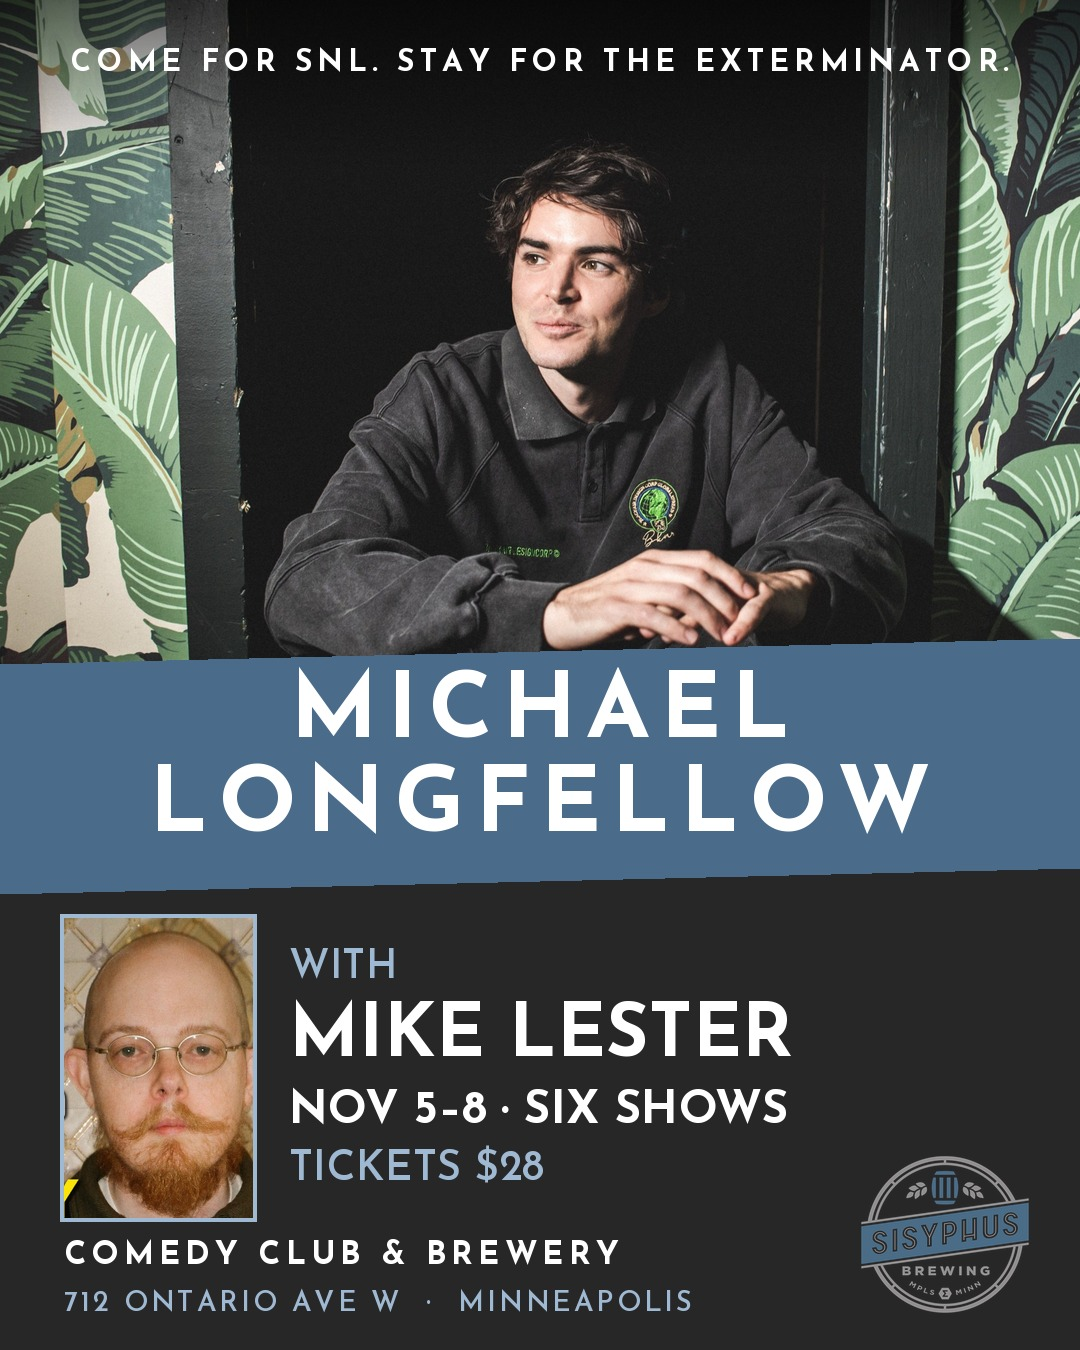
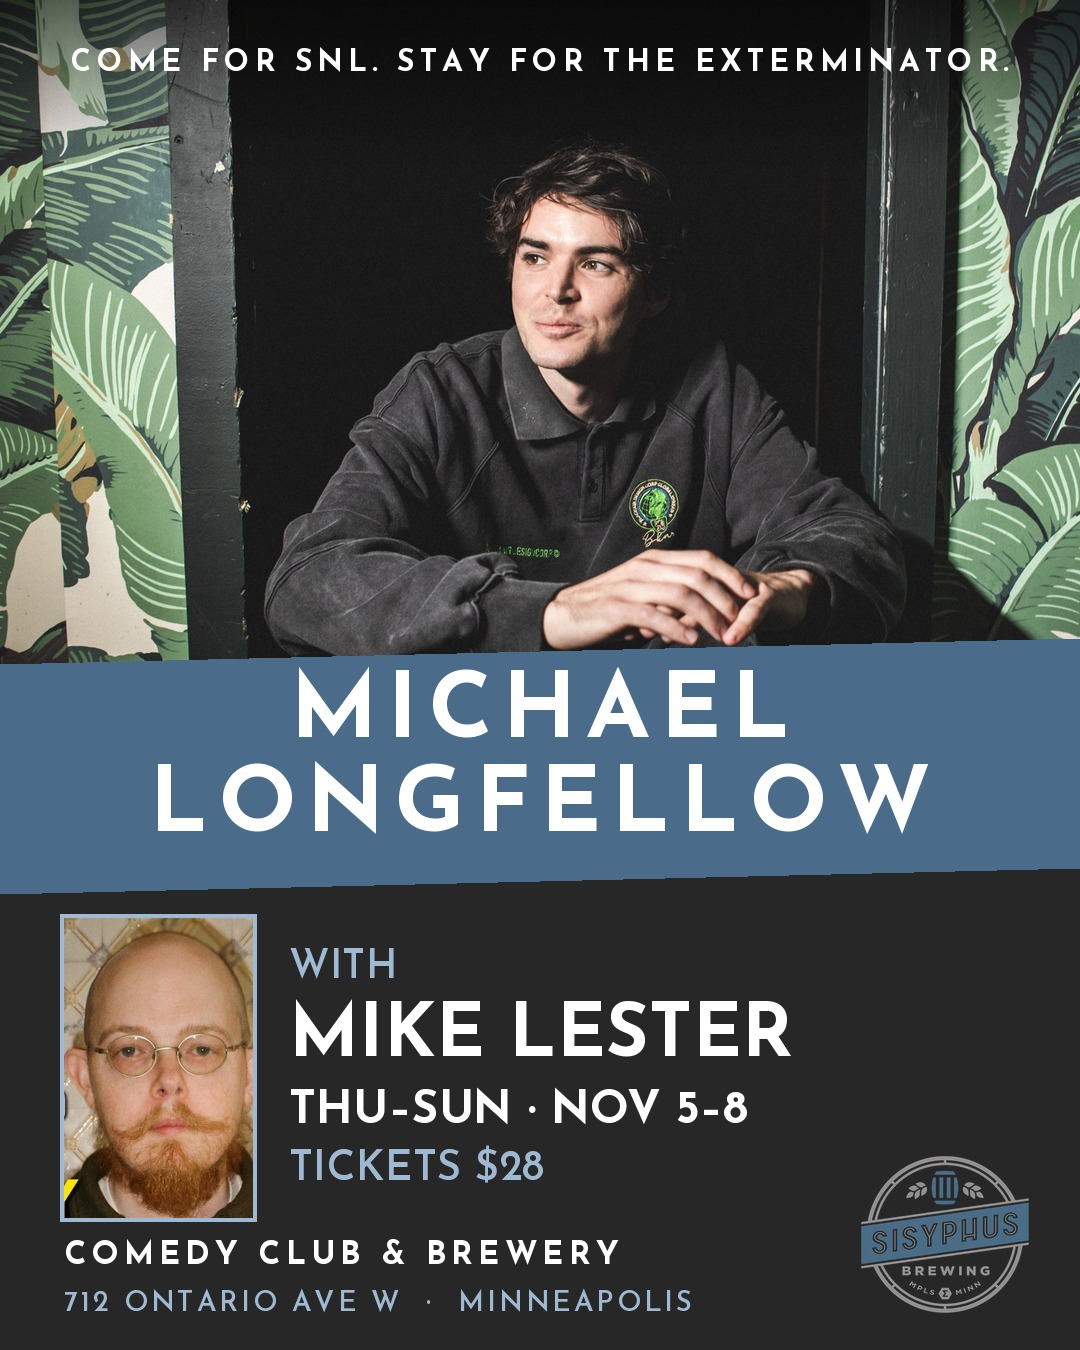
Feature ad: drop show count (Sam's copy rule)
Claude-Session: https://claude.ai/code/session_01JVNgcRiP55NefNJ7popbaY

Changed region(s): [[0.275, 0.8089, 0.7333, 0.84]]

diff --git a/ads/make_longfellow_feature_ads.py b/ads/make_longfellow_feature_ads.py
@@ -45,7 +45,7 @@ def make(w, h, kicker):
     tx, ty = mx + m.width + 36, my + (30 if tall else 14)
     d.text((tx, ty), "WITH", font=F("JosefinSans-SemiBold", 40 if tall else 32), fill=PALE)
     d.text((tx, ty + (52 if tall else 40)), "MIKE LESTER", font=F("JosefinSans-Bold", 74 if tall else 58), fill=WHITE)
-    d.text((tx, ty + (140 if tall else 108)), "NOV 5–8 · SIX SHOWS", font=F("JosefinSans-Bold", 46 if tall else 36), fill=WHITE)
+    d.text((tx, ty + (140 if tall else 108)), "THU–SUN · NOV 5–8", font=F("JosefinSans-Bold", 46 if tall else 36), fill=WHITE)
     d.text((tx, ty + (200 if tall else 154)), "TICKETS $28", font=F("JosefinSans-SemiBold", 42 if tall else 32), fill=PALE)
     if tall:
         bs = 170
